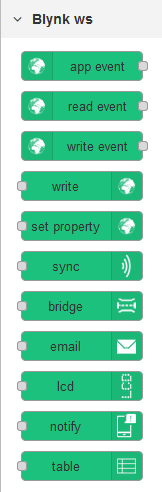
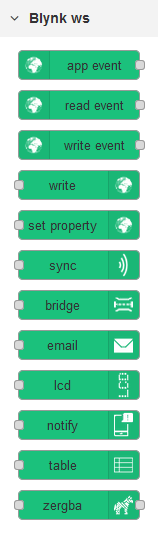
version 0.6.0

diff --git a/nodes/blynk-ws-zergba.js b/nodes/blynk-ws-zergba.js
@@ -1,0 +1,139 @@
+module.exports = function(RED) {
+	"use strict";
+
+	function BlynkZergbaNode(n) {
+		RED.nodes.createNode(this, n);
+		var node = this;
+		this.client = n.client;
+		this.pin = n.pin;
+		this.nodeType = "zergba";
+        
+		this.connected_label = RED._("blynk-ws-zergba.status.connected-fixed") + this.pin; 
+
+		function rgbToHex(r, g, b) {
+			return "#" + ((1 << 24) + (r << 16) + (g << 8) + b).toString(16).slice(1);
+		}
+
+		function hexToRgb(hex) {
+			// Expand shorthand form (e.g. "03F") to full form (e.g. "0033FF")
+			var shorthandRegex = /^#?([a-f\d])([a-f\d])([a-f\d])$/i;
+			hex = hex.replace(shorthandRegex, function(m, r, g, b) {
+				return r + r + g + g + b + b;
+			});
+		
+			var result = /^#?([a-f\d]{2})([a-f\d]{2})([a-f\d]{2})$/i.exec(hex);
+			return result ? {
+				r: parseInt(result[1], 16),
+				g: parseInt(result[2], 16),
+				b: parseInt(result[3], 16)
+			} : null;
+		}
+             
+
+		this.blynkClient = RED.nodes.getNode(this.client);
+		if (this.blynkClient) {
+			this.blynkClient.registerInputNode(this);
+			this.blynkClient.on("opened", function(n) {
+				node.status({
+					fill: "yellow",
+					shape: "dot",
+					text: "blynk-ws-zergba.status.connecting" + n
+				});
+			});
+			this.blynkClient.on("connected", function() {
+				node.status({
+					fill: "green",
+					shape: "dot",
+					text: node.connected_label
+				});
+			});
+			this.blynkClient.on("error", function() {
+				node.status({
+					fill: "red",
+					shape: "ring",
+					text: "blynk-ws-zergba.status.error"
+				});
+			});
+			this.blynkClient.on("closed", function() {
+				node.status({
+					fill: "red",
+					shape: "ring",
+					text: "blynk-ws-zergba.status.disconnected"
+				});
+			});
+		} else {
+			this.error(RED._("blynk-ws-zergba.errors.missing-conf"));
+		}
+
+		this.on("input", function(msg) {
+			if (msg.hasOwnProperty("payload") && node.blynkClient && node.blynkClient.logged) {
+				var payload = Buffer.isBuffer(msg.payload) ? msg.payload : RED.util.ensureString(msg.payload);
+				var pin = node.pin;
+				var newmsg = {};
+
+				if (msg.hasOwnProperty("hex")) {
+					var hex = Buffer.isBuffer(msg.hex) ? msg.hex : RED.util.ensureString(msg.hex);
+					var color = hexToRgb(hex);
+					newmsg.hex = hex;
+					newmsg.r = color.r;
+					newmsg.g = color.g;
+					newmsg.b = color.b;
+					newmsg.rgb = color.r+";"+color.g+";"+color.b;
+					newmsg.payload = [color.r, color.g, color.b];
+					
+				}
+				else if (msg.hasOwnProperty("r") && msg.hasOwnProperty("g") && msg.hasOwnProperty("b")) {
+					var r = Buffer.isBuffer(msg.r) ? msg.r : RED.util.ensureString(msg.r);
+					var g = Buffer.isBuffer(msg.g) ? msg.g : RED.util.ensureString(msg.g);
+					var b = Buffer.isBuffer(msg.b) ? msg.b : RED.util.ensureString(msg.b);
+					newmsg.hex = rgbToHex(parseInt(r), parseInt(g), parseInt(b));
+					newmsg.r = msg.r;
+					newmsg.g = msg.g;
+					newmsg.b = msg.b;
+					newmsg.rgb = msg.r+";"+msg.g+";"+msg.b;
+					newmsg.payload = [msg.r, msg.g, msg.b];
+				}
+				else {
+					var tmpcolor = payload.split("\0");
+					if(tmpcolor.length == 3){
+						newmsg.hex = rgbToHex(parseInt(tmpcolor[0]), parseInt(tmpcolor[1]), parseInt(tmpcolor[2]));
+						var color = hexToRgb(newmsg.hex);
+						newmsg.r = color.r;
+						newmsg.g = color.g;
+						newmsg.b = color.b;
+						newmsg.rgb = color.r+";"+color.g+";"+color.b;
+						newmsg.payload = [color.r, color.g, color.b];
+
+					}
+					tmpcolor = payload.split(";");
+					if(tmpcolor.length ==3){
+						newmsg.hex = rgbToHex(parseInt(tmpcolor[0]), parseInt(tmpcolor[1]), parseInt(tmpcolor[2]));
+						var color = hexToRgb(newmsg.hex);
+						newmsg.r = color.r;
+						newmsg.g = color.g;
+						newmsg.b = color.b;
+						newmsg.rgb = color.r+";"+color.g+";"+color.b;
+						newmsg.payload = [color.r, color.g, color.b];
+					}
+					
+				}
+				//todo valida valori
+
+				this.status({
+					fill: "green",
+					shape: "dot",
+					text: node.connected_label + " ["+newmsg.r+", "+newmsg.g+", "+newmsg.b+"]",
+				});
+
+				node.blynkClient.virtualWrite(pin, newmsg.payload);
+				this.send(newmsg);
+			}
+		});
+
+		this.on("close", function() {
+			node.blynkClient.removeInputNode(node);
+		});
+	}
+	
+	RED.nodes.registerType("blynk-ws-zergba", BlynkZergbaNode);
+};

diff --git a/nodes/blynk-ws-zergba.html b/nodes/blynk-ws-zergba.html
@@ -1,0 +1,88 @@
+<script type="text/javascript">
+
+    (function() {
+        
+        function ws_oneditsave() {
+        }
+
+        function ws_oneditprepare() {
+        }
+        
+        function ws_label() {
+            _pin = 'no pin';
+            _type = 'zeRGBa';
+            _pin = 'Pin V'+ this.pin + ' - ' +  _type;
+            return this.name||_pin;
+        }
+           
+    RED.nodes.registerType('blynk-ws-zergba',{
+        category: 'Blynk_ws',
+        paletteLabel: 'zergba',
+        defaults: {
+            name: {value: ''},
+            pin: {value: 0},
+            client: {type: "blynk-ws-client", required:true }
+        },
+        color:"#1BC17C",
+        inputs:1,
+        outputs:1,
+        icon: "zergba.png",
+        align: "right",
+        labelStyle: function() {
+            return this.name?"node_label_italic":"";
+        },
+        label: ws_label,
+        oneditsave: ws_oneditsave,
+        oneditprepare: ws_oneditprepare,
+    });
+
+})();
+</script>  
+
+<!-- Blynk out Node - Write -->
+<script type="text/x-red" data-template-name="blynk-ws-zergba">
+    <div class="form-row" id="websocket-client-row">
+        <label for="node-input-client"><i class="fa fa-bookmark"></i> <span>Connection</span></label>
+        <input type="text" id="node-input-client">
+    </div>
+    <div class="form-row" id="div-write-pin">
+        <label for="node-input-pin"><i class="fa fa-dot-circle-o"></i> <span>Virtual Pin</span></label>
+        <input type="number" id="node-input-pin"  min="0" max="127" placeholder="pin">
+   	</div>
+    <div class="form-row">
+        <label for="node-input-name"><i class="fa fa-tag"></i> <span>Name</span></label>
+        <input type="text" id="node-input-name" data-i18n="[placeholder]node-red:common.label.name">
+    </div>
+</script>
+
+<script type="text/x-red" data-help-name="blynk-ws-zergba">
+    <p>Blynk zeRGBa node.</p>
+    <p>For use with Blynk app zeRGBa Widget in merge mode.</p>
+    <p>To select the color you can use the following methods:<p>
+    <p>Set <code>msg.hex</code> with hex notation color. (ex. <code>#ff0000</code> for red)<br/>
+     Set <code>msg.r</code> <code>msg.g</code> <code>msg.b</code> with the relative integer value. (ex. <code>msg.r = 255; msg.g = 0; msg.b = 0; </code> for red)<br/>
+     Set <code>msg.payload</code> to string with rgb values separated by semicolons or "\0". (ex. <code>255;0;0</code> for red)<br/>
+    </p>
+    <p><b>This node also captures write events!</b></p>
+    <p>Example output:<br>
+        <pre>
+<code>{
+    "payload":[
+        0,
+        178,
+        77
+    ],
+    "pin":"0",
+    "hex":"#00b24d",
+    "r":0,
+    "g":178,
+    "b":77,
+    "rgb":"0;178;77"
+}</code>
+        </pre>
+    <p>
+    <p class="form-tips">
+        Official documentation: 
+        <a href="http://docs.blynk.cc/#widgets-controllers-zergba">zeRGBa</a>
+    <p>
+</script>

diff --git a/nodes/blynk-ws-client.js b/nodes/blynk-ws-client.js
@@ -4,7 +4,7 @@ module.exports = function(RED) {
 	var ws = require("ws");
 	var srs = require("secure-random-string");
 
-	var LIBRARY_INFO = "0.5.2 2018-04-27";
+	var LIBRARY_INFO = "0.6.0 2018-05-07";
 
 	/* ##### BLYNK STUFF ###### */
 
@@ -798,19 +798,68 @@ module.exports = function(RED) {
 		if(this.dbg_all || this.dbg_write || this.isLogPin(command.pin)){
 			this.log("writeEvent: -> cmd " + JSON.stringify(command));
 		}
+		//const util = require('util');
 		for (var i = 0; i < this._inputNodes.length; i++) {
-			if (this._inputNodes[i].nodeType == "write" && (this._inputNodes[i].pin == command.pin || this._inputNodes[i].pin_all ) ) {
+			//this.log(util.inspect(this._inputNodes[i], false, 1))
+			if ((this._inputNodes[i].nodeType == "write" || this._inputNodes[i].nodeType == "zergba") && 
+			(this._inputNodes[i].pin == command.pin || this._inputNodes[i].pin_all ) ) {
 				var msg;
 
-				msg = {
-					payload: command.value,
-					pin: command.pin,
-				};
+				switch (this._inputNodes[i].nodeType){
+					case 'write':
 
-				if (command.array) {
-					msg.arrayOfValues = command.array;
+						msg = {
+							payload: command.value,
+							pin: command.pin,
+						};
+
+						if (command.array) {
+							msg.arrayOfValues = command.array;
+						}
+						break;
+					case 'zergba':
+
+						function rgbToHex(r, g, b) {
+							return "#" + ((1 << 24) + (r << 16) + (g << 8) + b).toString(16).slice(1);
+						}
+
+						function hexToRgb(hex) {
+							// Expand shorthand form (e.g. "03F") to full form (e.g. "0033FF")
+							var shorthandRegex = /^#?([a-f\d])([a-f\d])([a-f\d])$/i;
+							hex = hex.replace(shorthandRegex, function(m, r, g, b) {
+								return r + r + g + g + b + b;
+							});
+						
+							var result = /^#?([a-f\d]{2})([a-f\d]{2})([a-f\d]{2})$/i.exec(hex);
+							return result ? {
+								r: parseInt(result[1], 16),
+								g: parseInt(result[2], 16),
+								b: parseInt(result[3], 16)
+							} : null;
+						}
+
+						msg = {
+							payload: command.value,
+							pin: command.pin,
+						};
+
+						msg.hex = rgbToHex(parseInt(command.array[0]), parseInt(command.array[1]), parseInt(command.array[2]));
+						var color = hexToRgb(msg.hex);
+						msg.r = color.r;
+						msg.g = color.g;
+						msg.b = color.b;
+						msg.rgb = color.r+";"+color.g+";"+color.b;
+						msg.payload = [color.r, color.g, color.b];
+
+						this._inputNodes[i].status({
+							fill: "green",
+							shape: "dot",
+							text: this._inputNodes[i].connected_label + " ["+color.r+", "+color.g+", "+color.b+"]",
+						});
+						break;
+
 				}
-                
+
 				if(this.dbg_all || this.dbg_write || this.isLogPin(command.pin)){
 					this.log("writeEvent: -> output " + JSON.stringify(msg));
 				}

diff --git a/CHANGELOG.md b/CHANGELOG.md
@@ -6,6 +6,10 @@ and this project adheres to [Semantic Versioning](http://semver.org/spec/v2.0.0.
 
 ## [Unreleased]
 
+## [0.6.0] - 2018-05-07
+### Added
+- Node - *zeRGBa* -  New node to simplify the use of this widget in merge mode
+
 ## [0.5.2] - 2018-04-27
 ### Fixed
 - Fix Crash on log Read Event
@@ -94,7 +98,8 @@ and this project adheres to [Semantic Versioning](http://semver.org/spec/v2.0.0.
 - Heartbeat once 10 seconds
 - Max virtual pin allowed 128
 
-[Unreleased]: https://github.com/gablau/node-red-contrib-blynk-ws/compare/0.5.2...HEAD
+[Unreleased]: https://github.com/gablau/node-red-contrib-blynk-ws/compare/0.6.0...HEAD
+[0.6.0]: https://github.com/gablau/node-red-contrib-blynk-ws/compare/0.5.2...0.6.0
 [0.5.1]: https://github.com/gablau/node-red-contrib-blynk-ws/compare/0.5.1...0.5.2
 [0.5.1]: https://github.com/gablau/node-red-contrib-blynk-ws/compare/0.5.0...0.5.1
 [0.5.0]: https://github.com/gablau/node-red-contrib-blynk-ws/compare/0.4.0...0.5.0

diff --git a/README.md b/README.md
@@ -44,6 +44,7 @@ If you installed Node Red globally use this command to install
 - notify widget
 - LCD widget
 - Table widget
+- zeRGBa widget
 
 ### Changelog
 
